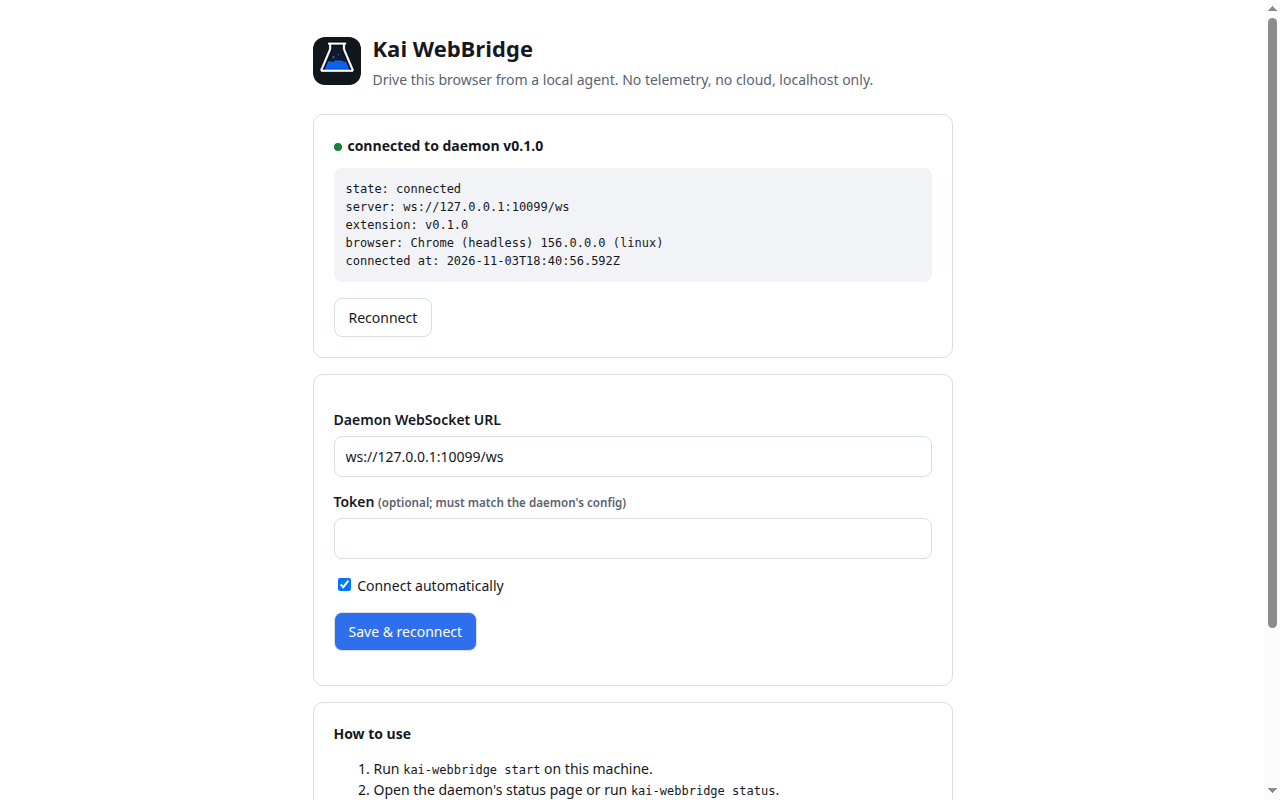
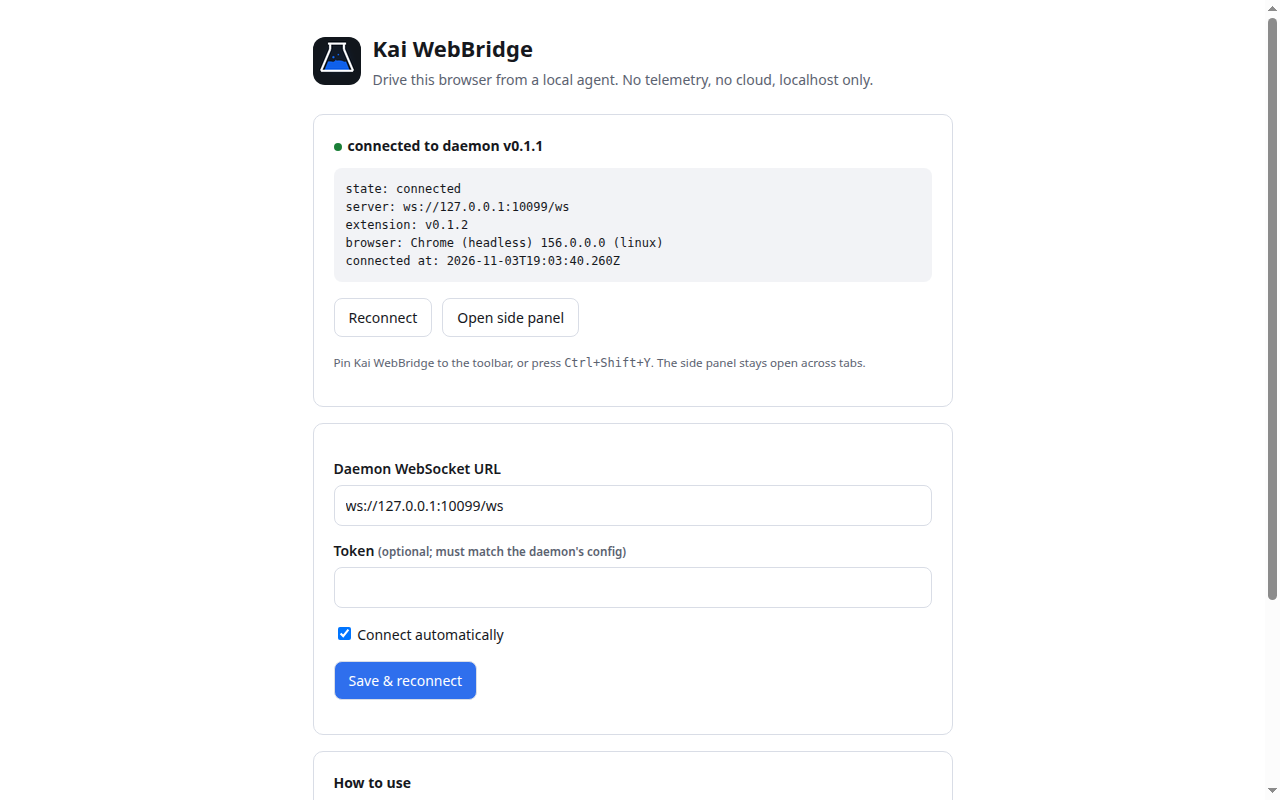
Add persistent side panel mode

diff --git a/test/unit/store-assets.test.js b/test/unit/store-assets.test.js
@@ -8,13 +8,18 @@ const ROOT = fileURLToPath(new URL("../../", import.meta.url));
 const EXT = path.join(ROOT, "extension");
 const manifest = JSON.parse(fs.readFileSync(path.join(EXT, "manifest.json"), "utf8"));
 
-test("manifest is store-ready: icons, popup, minimal permissions", () => {
+test("manifest is store-ready: icons, side panel, minimal permissions", () => {
   assert.equal(manifest.manifest_version, 3);
   assert.match(manifest.version, /^\d+\.\d+\.\d+$/);
-  assert.equal(manifest.action.default_popup, "popup.html");
+  assert.equal(manifest.action.default_popup, undefined);
+  assert.equal(manifest.side_panel.default_path, "sidepanel.html");
+  assert.equal(manifest.commands._execute_action.suggested_key.default, "Ctrl+Shift+Y");
   assert.equal(manifest.host_permissions, undefined);
-  assert.deepEqual(new Set(manifest.permissions), new Set(["tabs", "debugger", "tabGroups", "storage", "alarms"]));
-  for (const file of ["popup.html", "popup.js", "popup.css", "background.js", "options.html"]) {
+  assert.deepEqual(
+    new Set(manifest.permissions),
+    new Set(["tabs", "debugger", "tabGroups", "storage", "alarms", "sidePanel"]),
+  );
+  for (const file of ["sidepanel.html", "sidepanel.js", "sidepanel.css", "background.js", "options.html"]) {
     assert.ok(fs.existsSync(path.join(EXT, file)), `missing ${file}`);
   }
 });
@@ -28,11 +33,11 @@ test("all manifest icons exist and are PNG files", () => {
   }
 });
 
-test("popup uses external scripts and styles only", () => {
-  const html = fs.readFileSync(path.join(EXT, "popup.html"), "utf8");
-  assert.match(html, /<script src="popup\.js"/);
+test("side panel uses external scripts and styles only", () => {
+  const html = fs.readFileSync(path.join(EXT, "sidepanel.html"), "utf8");
+  assert.match(html, /<script src="sidepanel\.js"/);
   assert.doesNotMatch(html, /<script(?![^>]*\bsrc=)/i);
-  assert.match(html, /<link rel="stylesheet" href="popup\.css"/);
+  assert.match(html, /<link rel="stylesheet" href="sidepanel\.css"/);
 });
 
 test("privacy policy is present for the store listing", () => {

diff --git a/extension/background.js b/extension/background.js
@@ -6,6 +6,13 @@ import { runTool } from "./lib/tools.js";
 const connection = new Connection({ onToolCall: runTool });
 let booting = null;
 
+function configureSidePanel() {
+  if (!chrome.sidePanel?.setPanelBehavior) return;
+  chrome.sidePanel.setPanelBehavior({ openPanelOnActionClick: true }).catch((error) => {
+    console.warn("[kai-webbridge] could not configure side panel:", error);
+  });
+}
+
 function boot() {
   if (!booting) {
     booting = connection.start().catch((error) => {
@@ -17,11 +24,13 @@ function boot() {
 }
 
 chrome.runtime.onInstalled.addListener(() => {
+  configureSidePanel();
   void boot();
   void chrome.alarms.create("kai-webbridge-reconnect", { periodInMinutes: 0.5 });
 });
 
 chrome.runtime.onStartup.addListener(() => {
+  configureSidePanel();
   void boot();
 });
 
@@ -72,4 +81,5 @@ chrome.runtime.onMessage.addListener((message, _sender, sendResponse) => {
   return true;
 });
 
+configureSidePanel();
 void boot();

diff --git a/extension/options.js b/extension/options.js
@@ -59,6 +59,15 @@ document.getElementById("save").addEventListener("click", async () => {
   if (response?.ok) render(response.status);
 });
 
+document.getElementById("openPanel").addEventListener("click", async () => {
+  try {
+    const opening = chrome.sidePanel.open({});
+    await opening;
+  } catch (error) {
+    savedEl.textContent = `could not open side panel: ${String(error?.message ?? error)}`;
+  }
+});
+
 document.getElementById("reconnect").addEventListener("click", async () => {
   const response = await send({ type: "kai-reconnect" });
   if (response?.ok) render(response.status);

diff --git a/extension/sidepanel.css b/extension/sidepanel.css
@@ -1,6 +1,5 @@
 :root {
   color-scheme: light dark;
-  --popup-width: 380px;
   --bg: #f5f6f8;
   --panel: #ffffff;
   --panel-hover: #f2f4f7;
@@ -53,8 +52,8 @@
 html,
 body {
   margin: 0;
-  width: var(--popup-width);
-  min-width: var(--popup-width);
+  width: 100%;
+  min-width: 0;
 }
 
 body {
@@ -73,7 +72,7 @@ body {
   display: flex;
   flex-direction: column;
   gap: 10px;
-  width: var(--popup-width);
+  width: 100%;
   padding: 14px;
 }
 

diff --git a/extension/options.html b/extension/options.html
@@ -149,7 +149,9 @@
         <div id="status">—</div>
         <div class="row">
           <button id="reconnect" class="secondary">Reconnect</button>
+          <button id="openPanel" class="secondary">Open side panel</button>
         </div>
+        <p><small>Pin Kai WebBridge to the toolbar, or press <code>Ctrl+Shift+Y</code>. The side panel stays open across tabs.</small></p>
       </section>
 
       <section class="card">

diff --git a/extension/sidepanel.html b/extension/sidepanel.html
@@ -3,7 +3,7 @@
   <head>
     <meta charset="utf-8" />
     <title>Kai WebBridge</title>
-    <link rel="stylesheet" href="popup.css" />
+    <link rel="stylesheet" href="sidepanel.css" />
   </head>
   <body>
     <div class="popup">
@@ -63,6 +63,6 @@
         </button>
       </footer>
     </div>
-    <script src="popup.js" type="module"></script>
+    <script src="sidepanel.js" type="module"></script>
   </body>
 </html>

diff --git a/docs/store-listing.md b/docs/store-listing.md
@@ -30,7 +30,7 @@ What it can do:
 - Take screenshots and save pages as PDFs to local files.
 - Run JavaScript and raw Chrome DevTools Protocol commands when the local agent asks.
 - Capture network requests for a tab while capture is enabled.
-- Resume a task after a daemon restart; a status popup shows the connected browser and
+- Resume a task after a daemon restart; a status side panel shows the connected browser and
   daemon state.
 
 Privacy:
@@ -70,6 +70,8 @@ behalf of that local agent.
   tab-group bindings used to restore a task after a daemon restart.
 - **alarms:** Reconnect the extension's WebSocket after Chromium suspends the extension
   service worker.
+- **sidePanel:** Show the connection/status panel in Chrome's side panel. It stays visible
+  across tabs and does not read page content.
 
 No host permissions are requested. Navigation, debugging, and tab access use the
 permissions above only.
@@ -97,7 +99,7 @@ and runs on their own machine; there is no developer-operated server.
 2. Run `npx -y kai-webbridge setup` in a terminal. This starts the daemon on
    `127.0.0.1:10087` and copies the extension to `~/.kai-webbridge/extension`.
 3. Load that folder with "Load unpacked" in `chrome://extensions`.
-4. Open the extension popup and Options page. Both should show "connected" and the browser name.
+4. Open the extension side panel (click the toolbar icon or press Ctrl+Shift+Y) and the Options page. Both should show "connected" and the browser name.
 5. Open `https://example.com`, then from a terminal run:
 
    ```bash
@@ -124,7 +126,7 @@ Chromium restriction, not a test failure.
 ## Assets checklist
 
 - [x] 128×128 store icon: `extension/icons/128.png`
-- [x] Extension ZIP: `dist/kai-webbridge-extension-0.1.1.zip`
+- [x] Extension ZIP: `dist/kai-webbridge-extension-0.1.2.zip`
 - [x] At least one 1280×800 screenshot: `docs/store/screenshots/options-1280x800.png`
 - [x] 440×280 small promo tile: `docs/store/promo-440x280.png`
 - [x] Privacy policy URL

diff --git a/docs/architecture.md b/docs/architecture.md
@@ -95,7 +95,7 @@ The extension is a module service worker with no build step. `background.js` sta
 | `lib/network.js` | Per-tab `Network.*` capture buffer and body retrieval. |
 | `lib/tools.js` | The 21 tool implementations. |
 | `lib/browser-tabs.js` | URL matching/ranking for borrowing already-open tabs. |
-| `popup.html/js/css` | Connection status popup (browser, versions, server, reconnect/options). |
+| `sidepanel.html/js/css` | Persistent side panel: status, browser, versions, server, reconnect/options. |
 | `options.html/js` | Server URL, token, auto-connect, live status. |
 
 ### CDP session model
